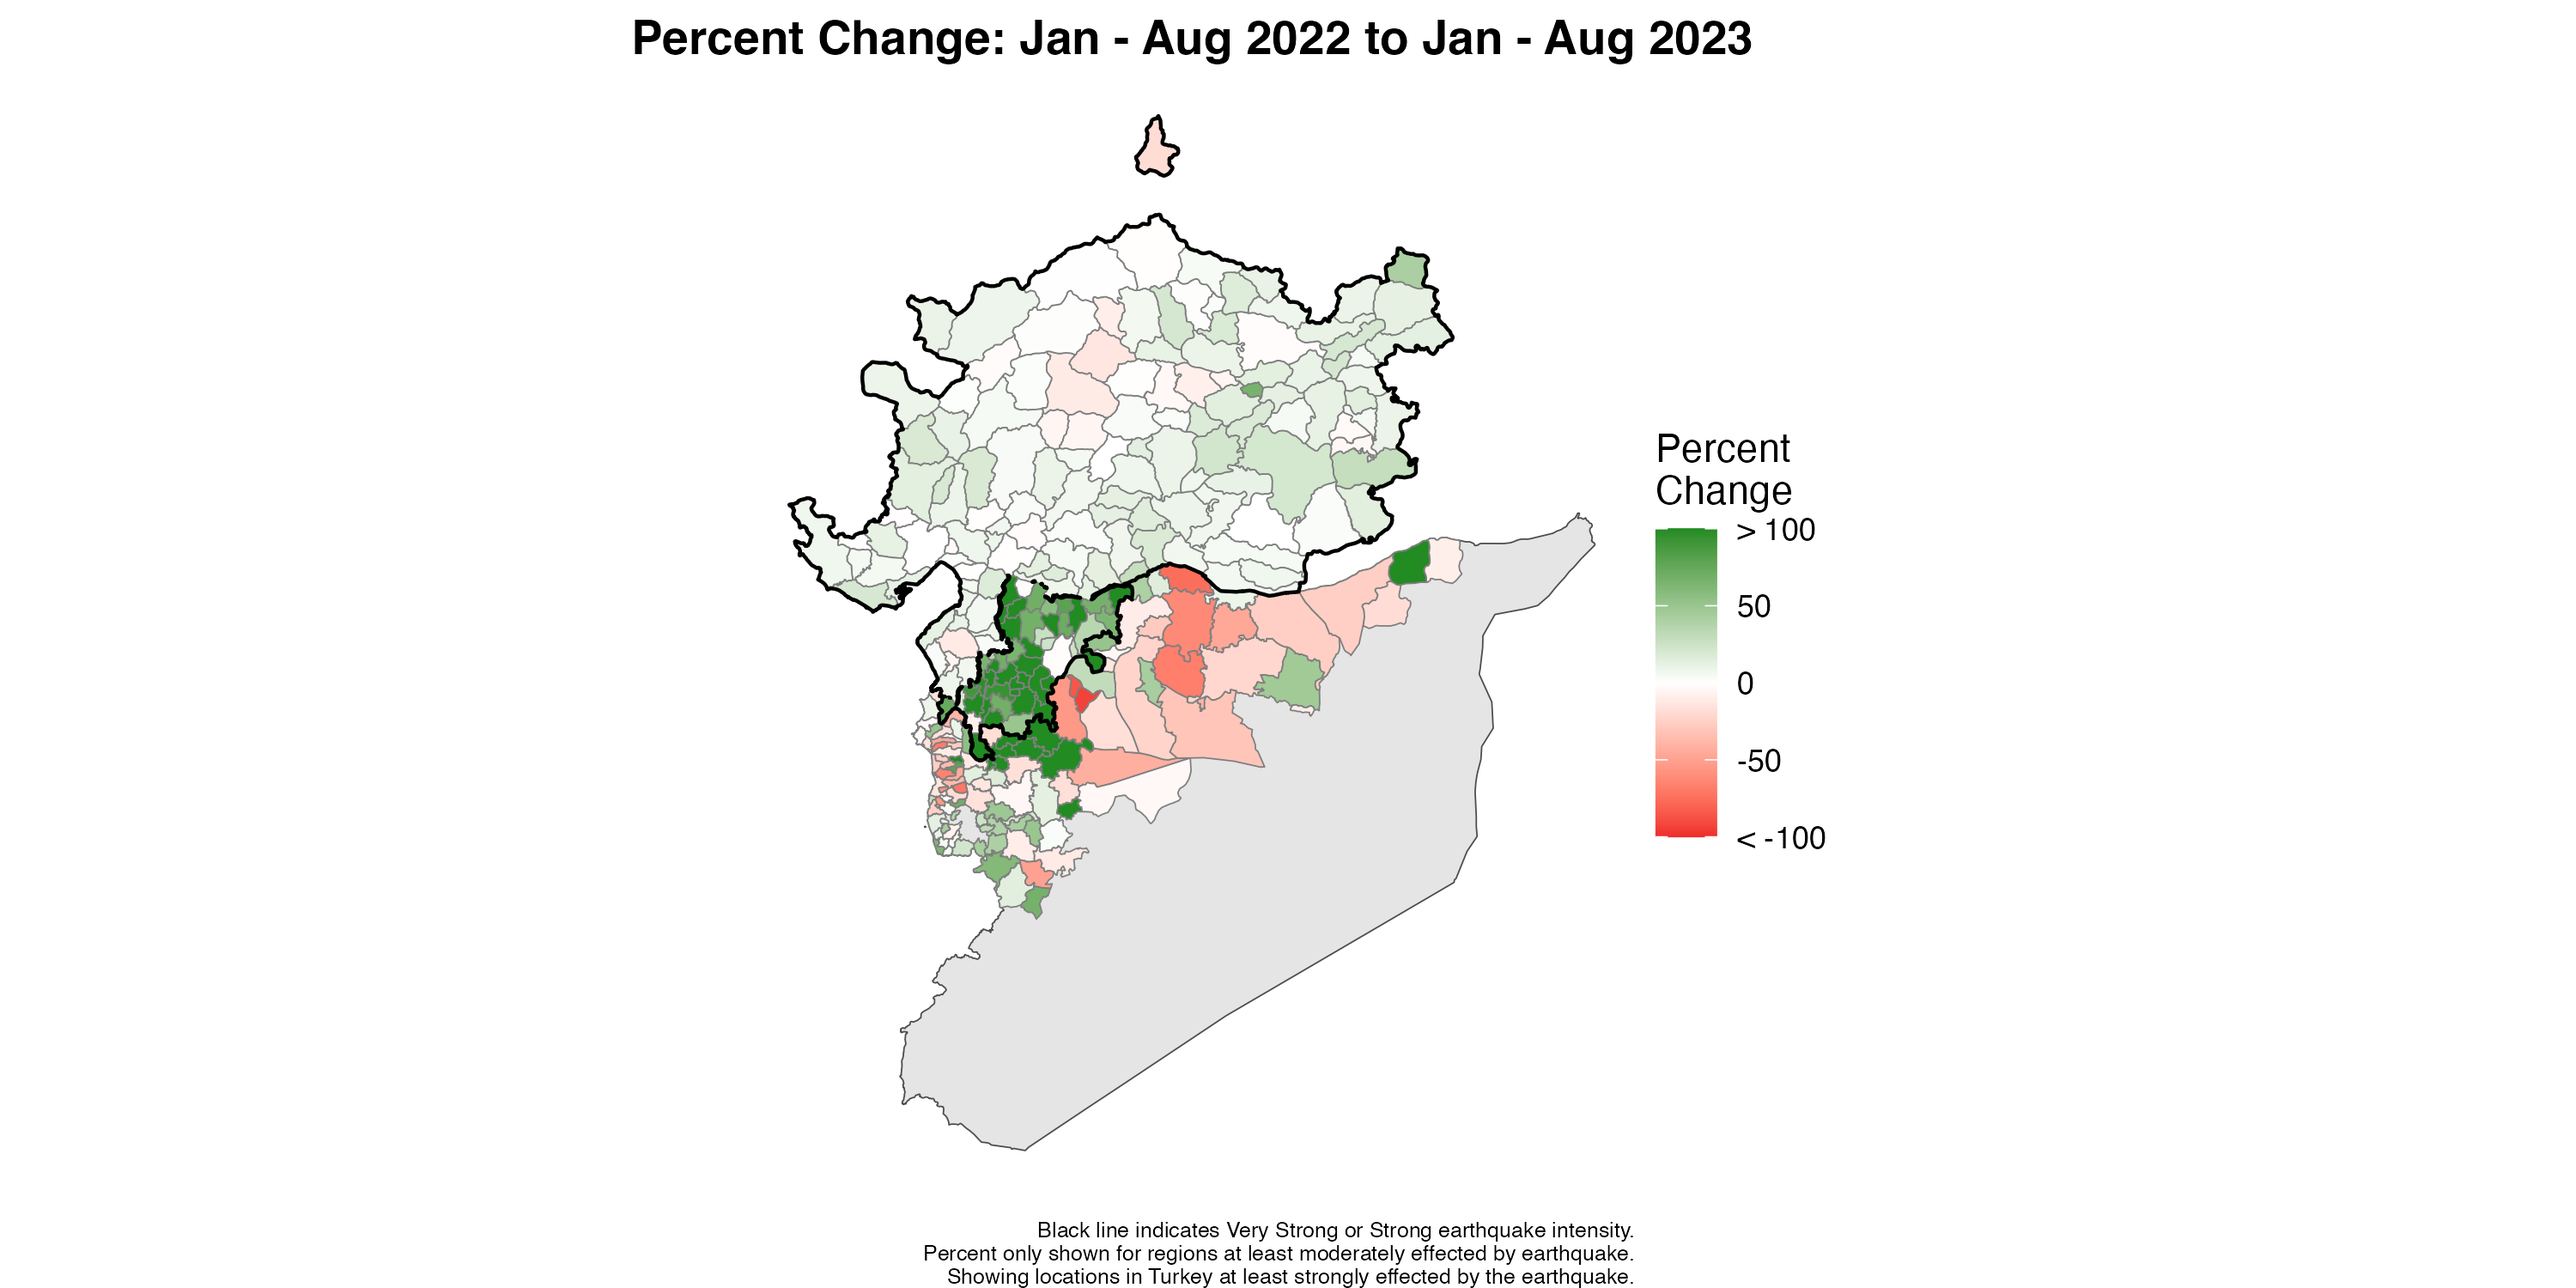
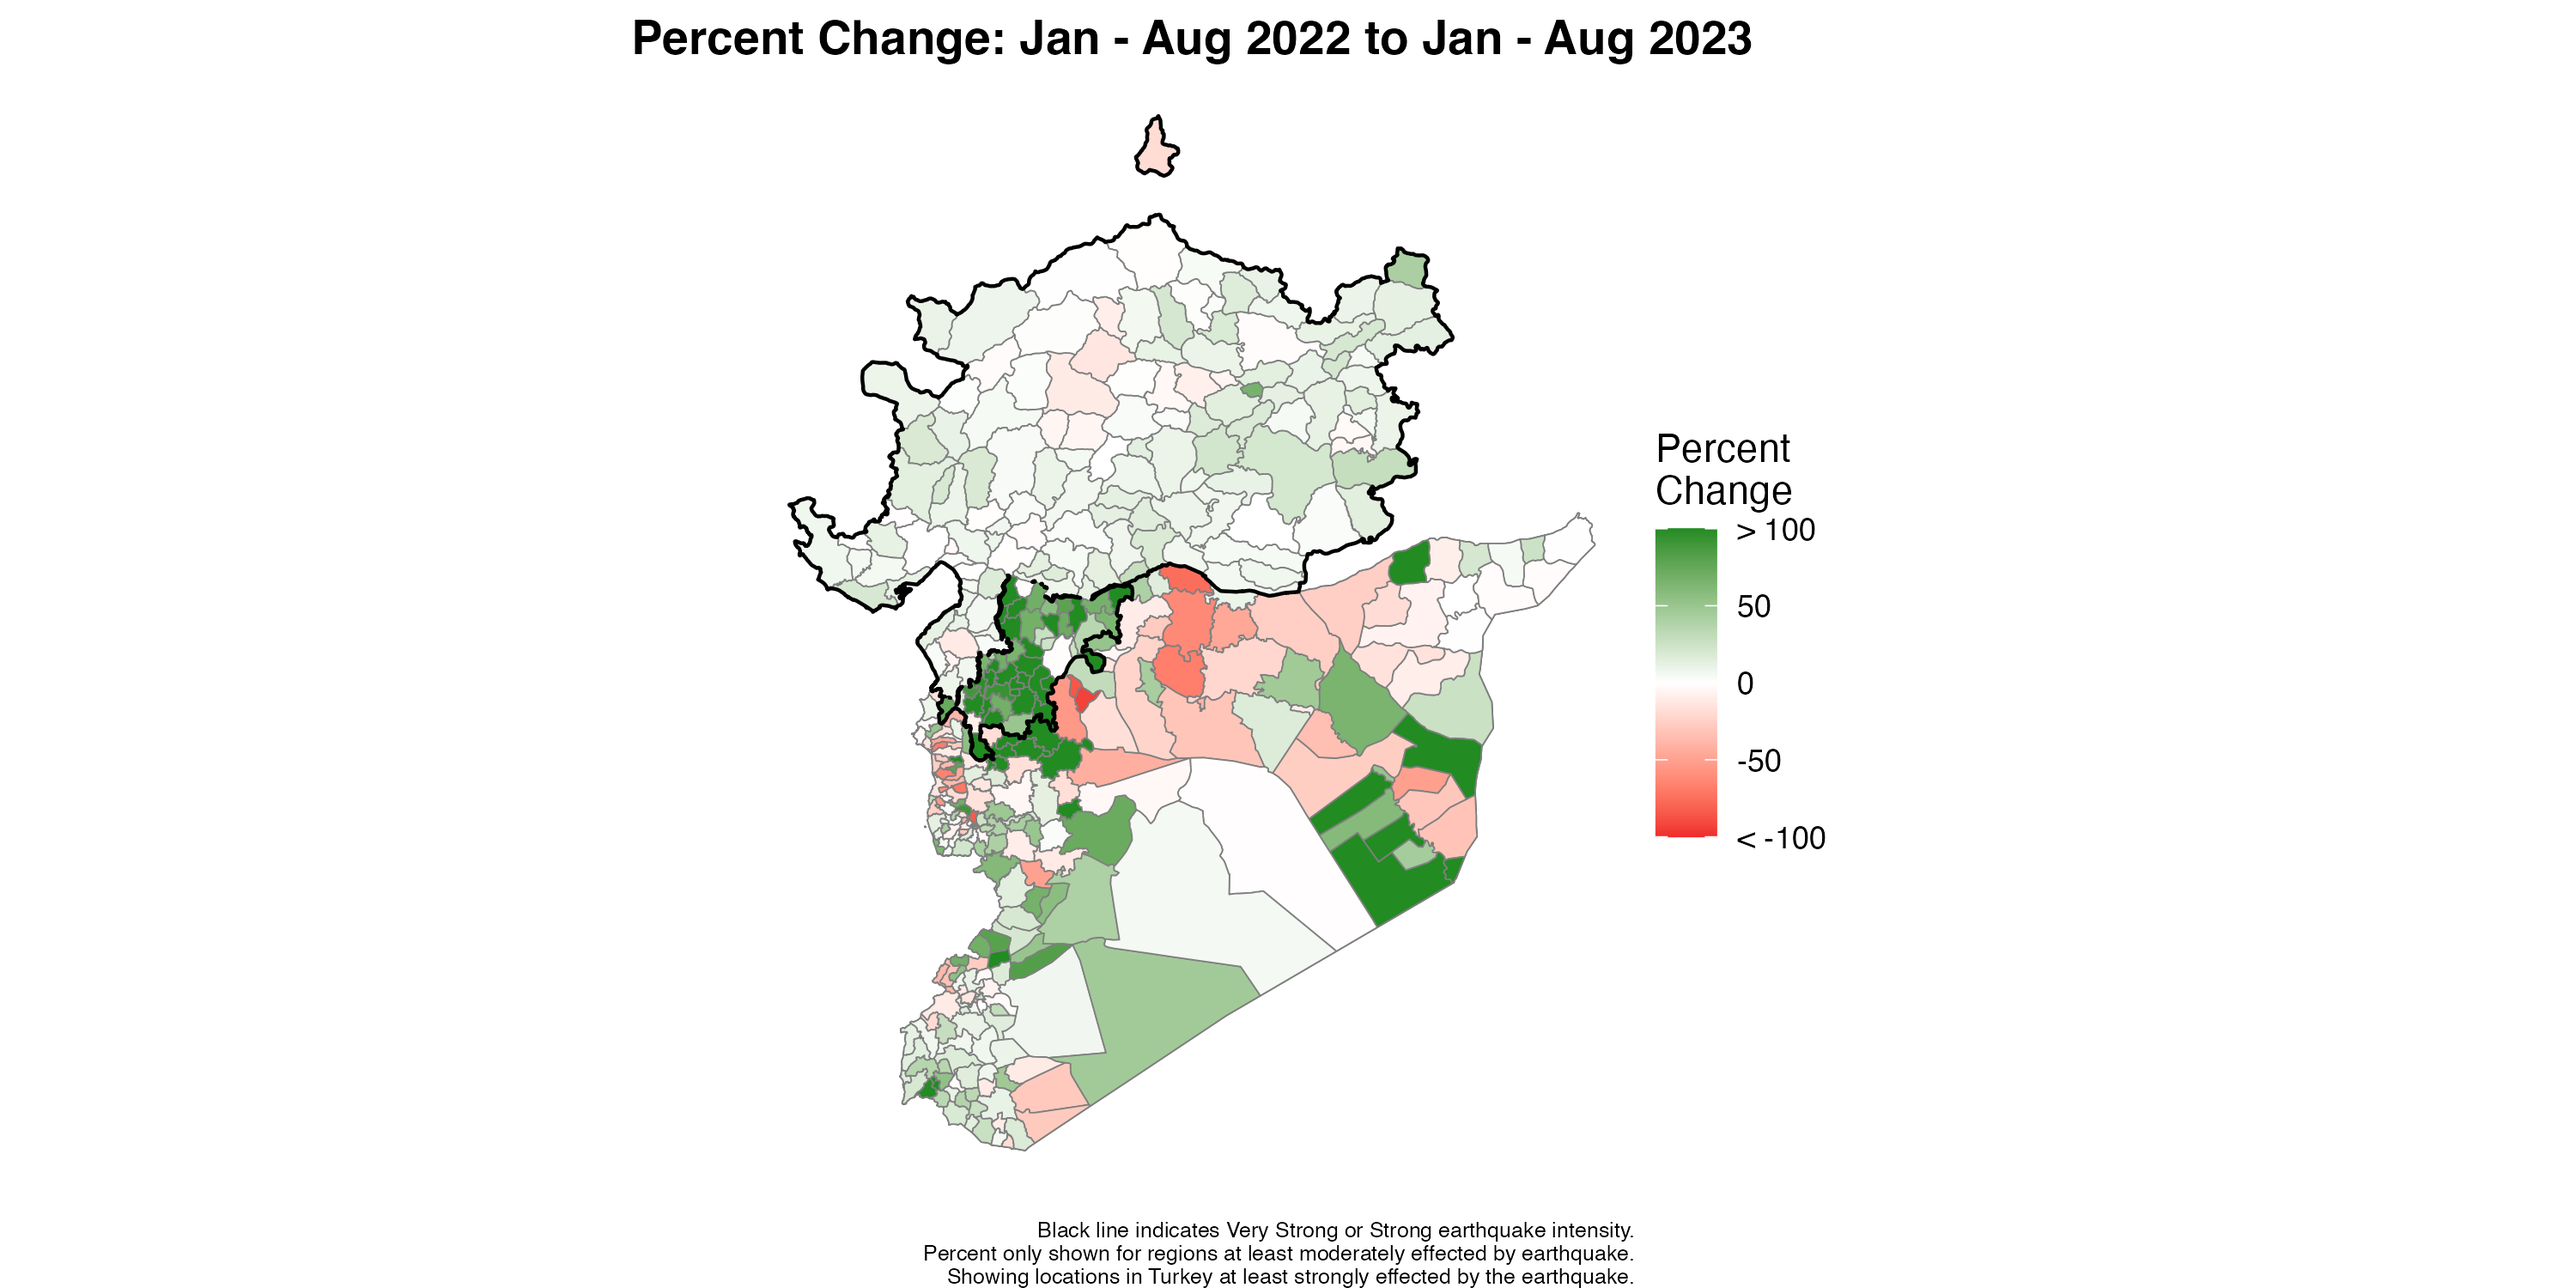
new ntl maps

Changed region(s): [[0.341, 0.3987, 0.62, 0.8893]]

diff --git a/notebooks/ntl-analysis/ntl-update-12-2023.md b/notebooks/ntl-analysis/ntl-update-12-2023.md
@@ -32,6 +32,8 @@ We examine trends in daily nighttime lights from before and after the February 6
 
 ![](../../reports/figures/pchange_ntl_2022_2023.png)
 
+![](../../reports/figures/pchange_ntl_nogf_2022_2023.png)
+
 ![](../../reports/figures/pchange_ntl_monthly.png)
 
 
